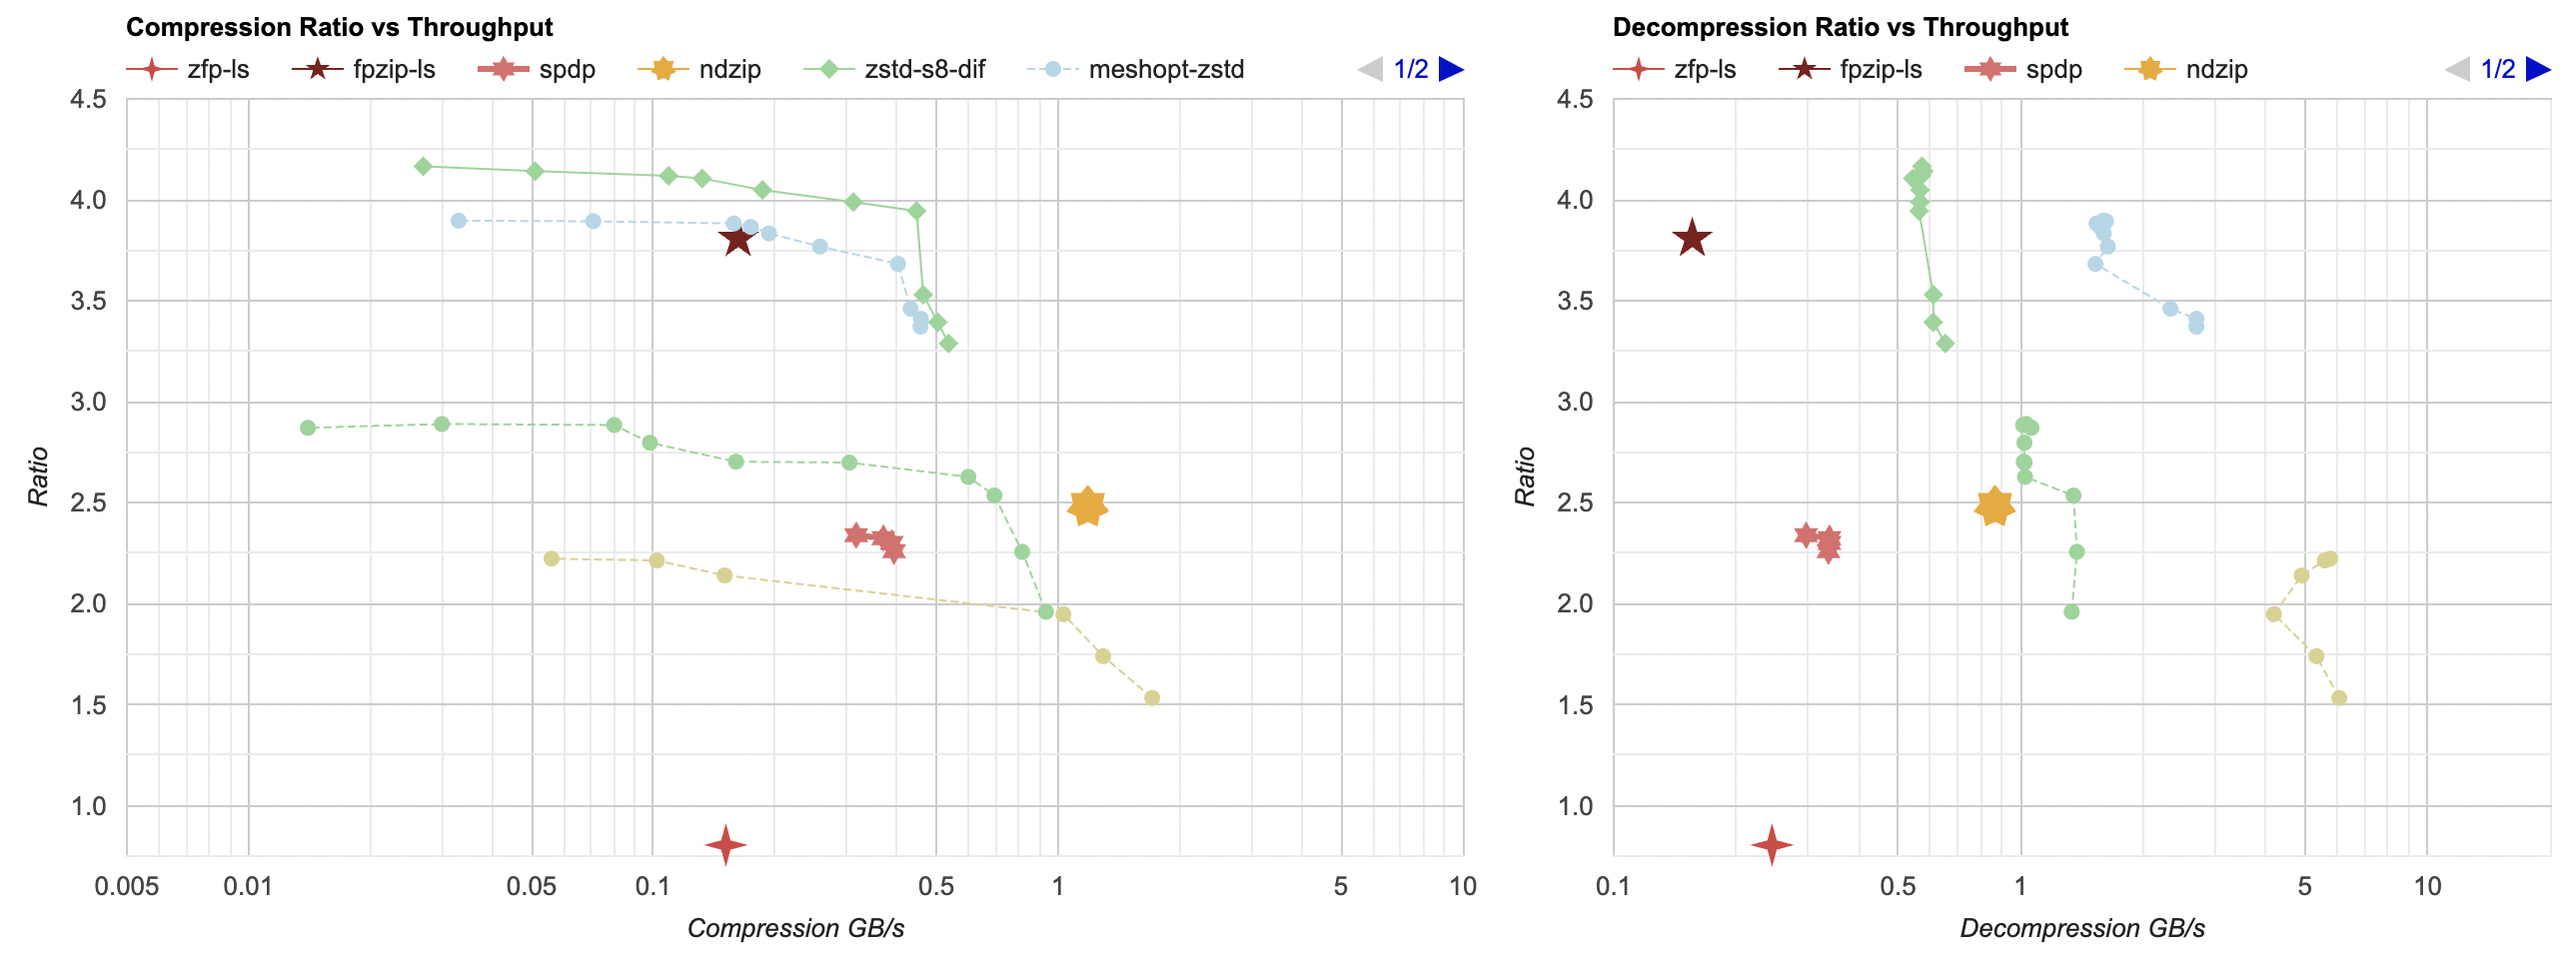
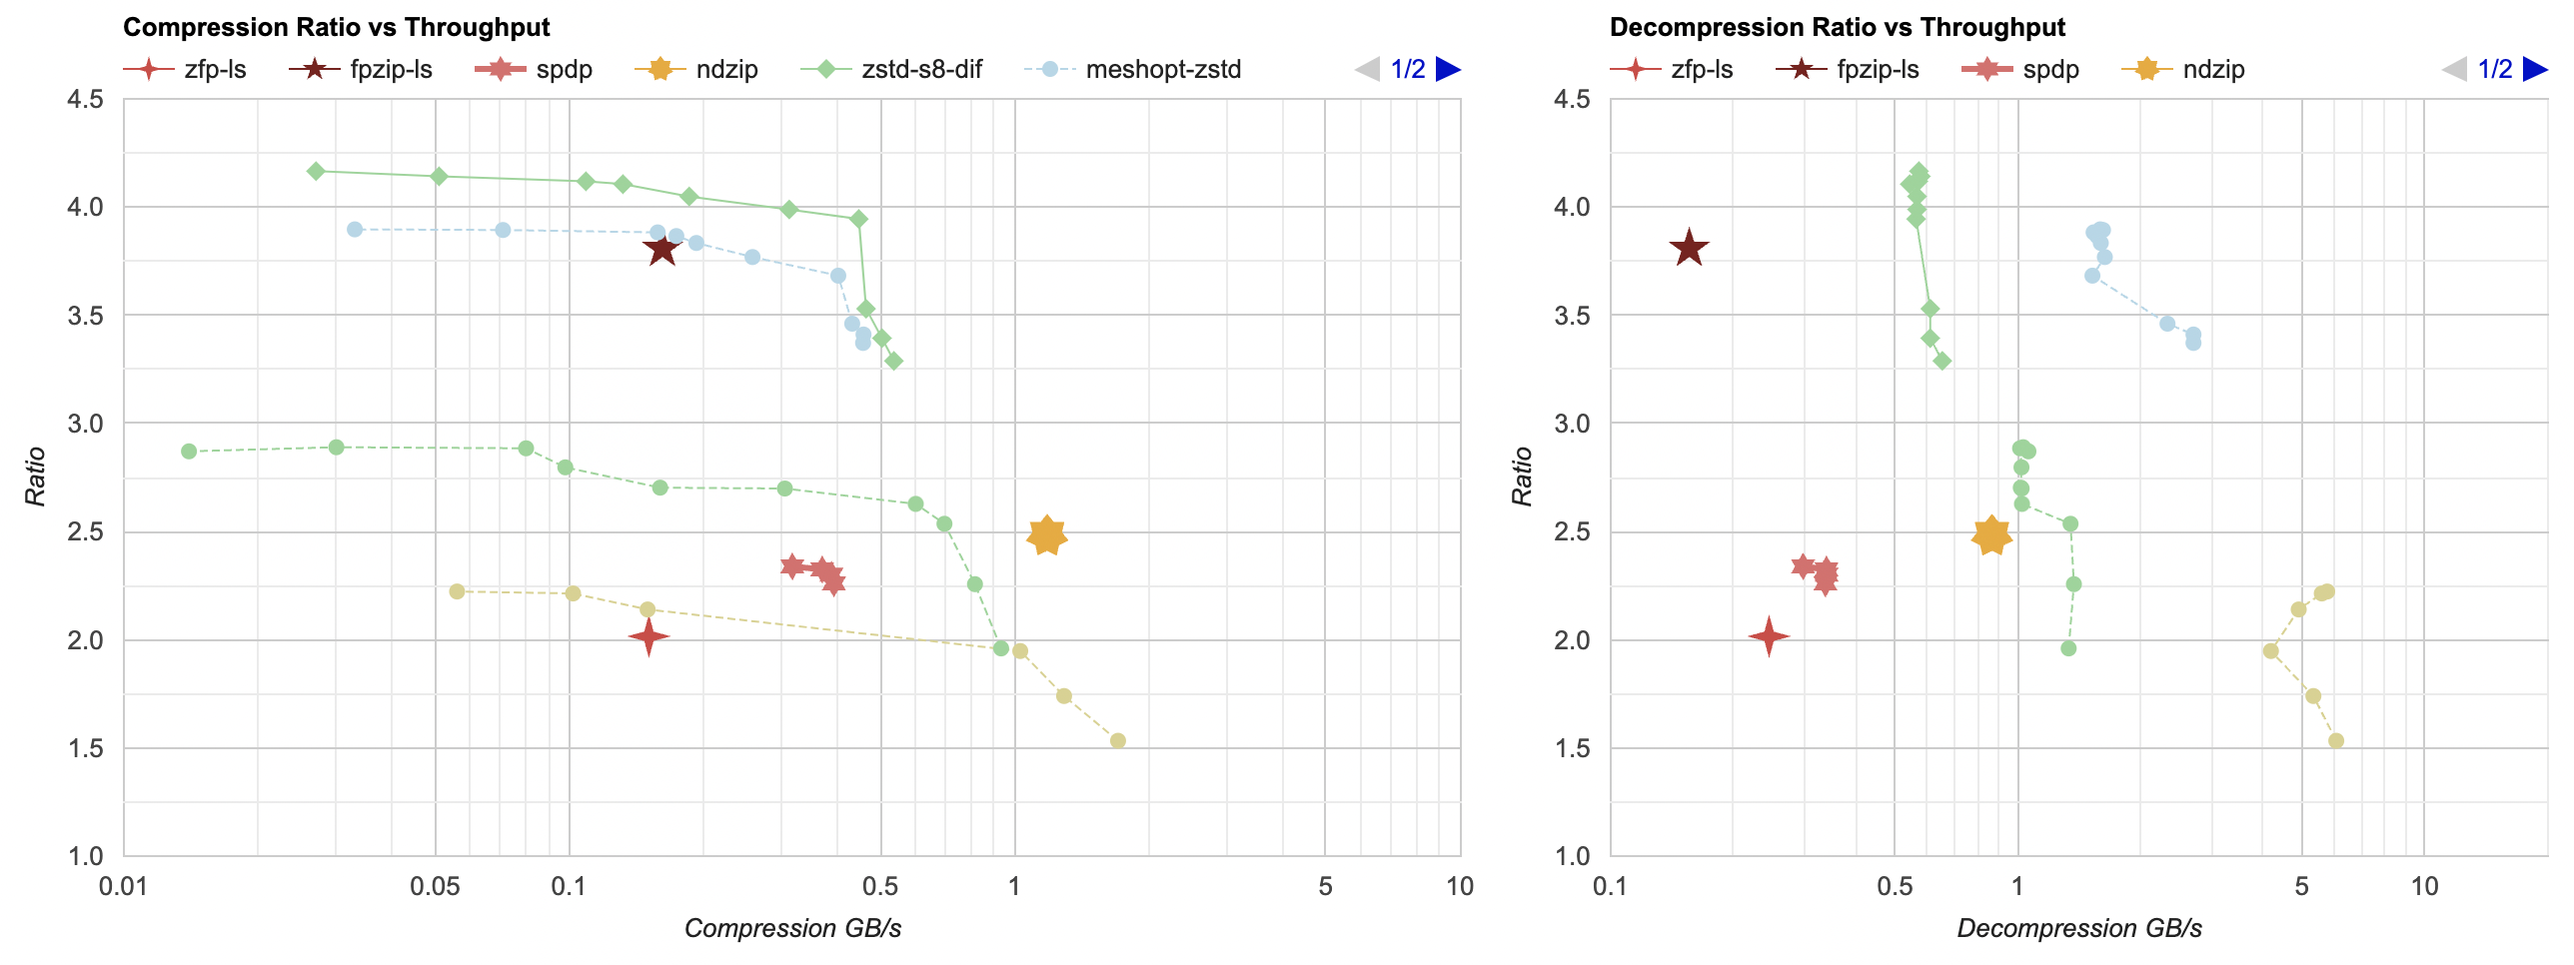
update zfp post

diff --git a/static/img/blog/2023/float-compr/05-float-compt-e-streamvbyte.html b/static/img/blog/2023/float-compr/05-float-compt-e-streamvbyte.html
@@ -34,7 +34,7 @@ dataDec.addColumn('number', 'zstd'); dataDec.addColumn({type:'string', role:'too
 dataCmp.addColumn('number', 'lz4'); dataCmp.addColumn({type:'string', role:'tooltip'}); dataCmp.addColumn({type:'string', role:'style'});
 dataDec.addColumn('number', 'lz4'); dataDec.addColumn({type:'string', role:'tooltip'}); dataDec.addColumn({type:'string', role:'style'});
 dataCmp.addRows([
-  [0.151, 0.805,'zfp-ls\n0.805x at 0.151 GB/s\n117.3MB 0.612s','' ,null,null,null,null,null,null,null,null,null,null,null,null,null,null,null,null,null,null,null,null,null,null,null,null,null,null,null],
+  [0.151, 2.016,'zfp-ls\n2.016x at 0.151 GB/s\n46.9MB 0.612s','' ,null,null,null,null,null,null,null,null,null,null,null,null,null,null,null,null,null,null,null,null,null,null,null,null,null,null,null],
   [0.162,null,null,null, 3.808,'fpzip-ls\n3.808x at 0.162 GB/s\n24.8MB 0.568s','' ,null,null,null,null,null,null,null,null,null,null,null,null,null,null,null,null,null,null,null,null,null,null,null,null],
   [0.393,null,null,null,null,null,null, 2.260,'spdp 0\n2.260x at 0.393 GB/s\n41.8MB 0.235s','' ,null,null,null,null,null,null,null,null,null,null,null,null,null,null,null,null,null,null,null,null,null],
   [0.388,null,null,null,null,null,null, 2.301,'spdp 3\n2.301x at 0.388 GB/s\n41.0MB 0.238s','' ,null,null,null,null,null,null,null,null,null,null,null,null,null,null,null,null,null,null,null,null,null],
@@ -90,7 +90,7 @@ dataCmp.addRows([
   [0.056,null,null,null,null,null,null,null,null,null,null,null,null,null,null,null,null,null,null,null,null,null,null,null,null,null,null,null, 2.223,'lz4 9\n2.223x at 0.056 GB/s\n42.5MB 1.653s','' ]
 ]);
 dataDec.addRows([
-  [0.245, 0.805,'zfp-ls\n0.805x at 0.245 GB/s\n117.3MB 0.377s','' ,null,null,null,null,null,null,null,null,null,null,null,null,null,null,null,null,null,null,null,null,null,null,null,null,null,null,null],
+  [0.245, 2.016,'zfp-ls\n2.016x at 0.245 GB/s\n46.9MB 0.377s','' ,null,null,null,null,null,null,null,null,null,null,null,null,null,null,null,null,null,null,null,null,null,null,null,null,null,null,null],
   [0.156,null,null,null, 3.808,'fpzip-ls\n3.808x at 0.156 GB/s\n24.8MB 0.592s','' ,null,null,null,null,null,null,null,null,null,null,null,null,null,null,null,null,null,null,null,null,null,null,null,null],
   [0.337,null,null,null,null,null,null, 2.260,'spdp 0\n2.260x at 0.337 GB/s\n41.8MB 0.274s','' ,null,null,null,null,null,null,null,null,null,null,null,null,null,null,null,null,null,null,null,null,null],
   [0.339,null,null,null,null,null,null, 2.301,'spdp 3\n2.301x at 0.339 GB/s\n41.0MB 0.272s','' ,null,null,null,null,null,null,null,null,null,null,null,null,null,null,null,null,null,null,null,null,null],
@@ -163,8 +163,8 @@ series: {
   10: {},
 },
 colors: ['d74242','7e1b1b','e06c6c','f0a820','ff6454','ff6454','90d596','b0d7e8','90d596','d9d18c'],
-hAxis: {title: 'Compression GB/s', logScale: true, viewWindow: {min:0.005, max:10.0}},
-vAxis: {title: 'Ratio', viewWindow: {min:0.75, max:4.5}},
+hAxis: {title: 'Compression GB/s', logScale: true, viewWindow: {min:0.01, max:10.0}},
+vAxis: {title: 'Ratio', viewWindow: {min:1.0, max:4.5}},
 chartArea: {left:60, right:10, top:50, bottom:50},
 legend: {position: 'top'},
 lineWidth: 1

diff --git a/static/img/blog/2023/float-compr/05-float-compt-d-ndzip.html b/static/img/blog/2023/float-compr/05-float-compt-d-ndzip.html
@@ -30,7 +30,7 @@ dataDec.addColumn('number', 'zstd'); dataDec.addColumn({type:'string', role:'too
 dataCmp.addColumn('number', 'lz4'); dataCmp.addColumn({type:'string', role:'tooltip'}); dataCmp.addColumn({type:'string', role:'style'});
 dataDec.addColumn('number', 'lz4'); dataDec.addColumn({type:'string', role:'tooltip'}); dataDec.addColumn({type:'string', role:'style'});
 dataCmp.addRows([
-  [0.151, 0.805,'zfp-ls\n0.805x at 0.151 GB/s\n117.3MB 0.612s','' ,null,null,null,null,null,null,null,null,null,null,null,null,null,null,null,null,null,null,null,null,null],
+  [0.151, 2.016,'zfp-ls\n2.016x at 0.151 GB/s\n46.9MB 0.612s','' ,null,null,null,null,null,null,null,null,null,null,null,null,null,null,null,null,null,null,null,null,null],
   [0.162,null,null,null, 3.808,'fpzip-ls\n3.808x at 0.162 GB/s\n24.8MB 0.568s','' ,null,null,null,null,null,null,null,null,null,null,null,null,null,null,null,null,null,null],
   [0.393,null,null,null,null,null,null, 2.260,'spdp 0\n2.260x at 0.393 GB/s\n41.8MB 0.235s','' ,null,null,null,null,null,null,null,null,null,null,null,null,null,null,null],
   [0.388,null,null,null,null,null,null, 2.301,'spdp 3\n2.301x at 0.388 GB/s\n41.0MB 0.238s','' ,null,null,null,null,null,null,null,null,null,null,null,null,null,null,null],
@@ -75,7 +75,7 @@ dataCmp.addRows([
   [0.056,null,null,null,null,null,null,null,null,null,null,null,null,null,null,null,null,null,null,null,null,null, 2.223,'lz4 9\n2.223x at 0.056 GB/s\n42.5MB 1.653s','' ]
 ]);
 dataDec.addRows([
-  [0.245, 0.805,'zfp-ls\n0.805x at 0.245 GB/s\n117.3MB 0.377s','' ,null,null,null,null,null,null,null,null,null,null,null,null,null,null,null,null,null,null,null,null,null],
+  [0.245, 2.016,'zfp-ls\n2.016x at 0.245 GB/s\n46.9MB 0.377s','' ,null,null,null,null,null,null,null,null,null,null,null,null,null,null,null,null,null,null,null,null,null],
   [0.156,null,null,null, 3.808,'fpzip-ls\n3.808x at 0.156 GB/s\n24.8MB 0.592s','' ,null,null,null,null,null,null,null,null,null,null,null,null,null,null,null,null,null,null],
   [0.337,null,null,null,null,null,null, 2.260,'spdp 0\n2.260x at 0.337 GB/s\n41.8MB 0.274s','' ,null,null,null,null,null,null,null,null,null,null,null,null,null,null,null],
   [0.339,null,null,null,null,null,null, 2.301,'spdp 3\n2.301x at 0.339 GB/s\n41.0MB 0.272s','' ,null,null,null,null,null,null,null,null,null,null,null,null,null,null,null],
@@ -135,8 +135,8 @@ series: {
   8: {},
 },
 colors: ['d74242','7e1b1b','e06c6c','f0a820','90d596','b0d7e8','90d596','d9d18c'],
-hAxis: {title: 'Compression GB/s', logScale: true, viewWindow: {min:0.005, max:10.0}},
-vAxis: {title: 'Ratio', viewWindow: {min:0.75, max:4.5}},
+hAxis: {title: 'Compression GB/s', logScale: true, viewWindow: {min:0.01, max:10.0}},
+vAxis: {title: 'Ratio', viewWindow: {min:1.0, max:4.5}},
 chartArea: {left:60, right:10, top:50, bottom:50},
 legend: {position: 'top'},
 lineWidth: 1

diff --git a/static/img/blog/2023/float-compr/05-float-compt-c-spdp.html b/static/img/blog/2023/float-compr/05-float-compt-c-spdp.html
@@ -28,7 +28,7 @@ dataDec.addColumn('number', 'zstd'); dataDec.addColumn({type:'string', role:'too
 dataCmp.addColumn('number', 'lz4'); dataCmp.addColumn({type:'string', role:'tooltip'}); dataCmp.addColumn({type:'string', role:'style'});
 dataDec.addColumn('number', 'lz4'); dataDec.addColumn({type:'string', role:'tooltip'}); dataDec.addColumn({type:'string', role:'style'});
 dataCmp.addRows([
-  [0.151, 0.805,'zfp-ls\n0.805x at 0.151 GB/s\n117.3MB 0.61s','' ,null,null,null,null,null,null,null,null,null,null,null,null,null,null,null,null,null,null],
+  [0.151, 2.016,'zfp-ls\n2.016x at 0.151 GB/s\n46.9MB 0.61s','' ,null,null,null,null,null,null,null,null,null,null,null,null,null,null,null,null,null,null],
   [0.162,null,null,null, 3.808,'fpzip-ls\n3.808x at 0.162 GB/s\n24.8MB 0.57s','' ,null,null,null,null,null,null,null,null,null,null,null,null,null,null,null],
   [0.393,null,null,null,null,null,null, 2.260,'spdp 0\n2.260x at 0.393 GB/s\n41.8MB 0.23s','' ,null,null,null,null,null,null,null,null,null,null,null,null],
   [0.388,null,null,null,null,null,null, 2.301,'spdp 3\n2.301x at 0.388 GB/s\n41.0MB 0.24s','' ,null,null,null,null,null,null,null,null,null,null,null,null],
@@ -72,7 +72,7 @@ dataCmp.addRows([
   [0.056,null,null,null,null,null,null,null,null,null,null,null,null,null,null,null,null,null,null, 2.223,'lz4 9\n2.223x at 0.056 GB/s\n42.5MB 1.65s','' ]
 ]);
 dataDec.addRows([
-  [0.245, 0.805,'zfp-ls\n0.805x at 0.245 GB/s\n117.3MB 0.38s','' ,null,null,null,null,null,null,null,null,null,null,null,null,null,null,null,null,null,null],
+  [0.245, 2.016,'zfp-ls\n2.016x at 0.245 GB/s\n46.9MB 0.38s','' ,null,null,null,null,null,null,null,null,null,null,null,null,null,null,null,null,null,null],
   [0.156,null,null,null, 3.808,'fpzip-ls\n3.808x at 0.156 GB/s\n24.8MB 0.59s','' ,null,null,null,null,null,null,null,null,null,null,null,null,null,null,null],
   [0.337,null,null,null,null,null,null, 2.260,'spdp 0\n2.260x at 0.337 GB/s\n41.8MB 0.27s','' ,null,null,null,null,null,null,null,null,null,null,null,null],
   [0.339,null,null,null,null,null,null, 2.301,'spdp 3\n2.301x at 0.339 GB/s\n41.0MB 0.27s','' ,null,null,null,null,null,null,null,null,null,null,null,null],
@@ -130,8 +130,8 @@ series: {
   7: {},
 },
 colors: ['d74242','7e1b1b','e06c6c','90d596','b0d7e8','90d596','d9d18c'],
-hAxis: {title: 'Compression GB/s', logScale: true, viewWindow: {min:0.005, max:10.0}},
-vAxis: {title: 'Ratio', viewWindow: {min:0.75, max:4.5}},
+hAxis: {title: 'Compression GB/s', logScale: true, viewWindow: {min:0.01, max:10.0}},
+vAxis: {title: 'Ratio', viewWindow: {min:1.0, max:4.5}},
 chartArea: {left:60, right:10, top:50, bottom:50},
 legend: {position: 'top'},
 lineWidth: 1

diff --git a/static/img/blog/2023/float-compr/05-float-compt-b-fpzip.html b/static/img/blog/2023/float-compr/05-float-compt-b-fpzip.html
@@ -26,7 +26,7 @@ dataDec.addColumn('number', 'zstd'); dataDec.addColumn({type:'string', role:'too
 dataCmp.addColumn('number', 'lz4'); dataCmp.addColumn({type:'string', role:'tooltip'}); dataCmp.addColumn({type:'string', role:'style'});
 dataDec.addColumn('number', 'lz4'); dataDec.addColumn({type:'string', role:'tooltip'}); dataDec.addColumn({type:'string', role:'style'});
 dataCmp.addRows([
-  [0.151, 0.805,'zfp-ls\n0.805x at 0.151 GB/s\n117.3MB 0.61s','' ,null,null,null,null,null,null,null,null,null,null,null,null,null,null,null],
+  [0.151, 2.016,'zfp-ls\n2.016x at 0.151 GB/s\n46.9MB 0.61s','' ,null,null,null,null,null,null,null,null,null,null,null,null,null,null,null],
   [0.162,null,null,null, 3.808,'fpzip-ls\n3.808x at 0.162 GB/s\n24.8MB 0.57s','' ,null,null,null,null,null,null,null,null,null,null,null,null],
   [0.536,null,null,null,null,null,null, 3.289,'zstd-s8-dif -5\n3.289x at 0.536 GB/s\n28.7MB 0.17s','' ,null,null,null,null,null,null,null,null,null],
   [0.504,null,null,null,null,null,null, 3.394,'zstd-s8-dif -3\n3.394x at 0.504 GB/s\n27.8MB 0.18s','' ,null,null,null,null,null,null,null,null,null],
@@ -66,7 +66,7 @@ dataCmp.addRows([
   [0.056,null,null,null,null,null,null,null,null,null,null,null,null,null,null,null, 2.223,'lz4 9\n2.223x at 0.056 GB/s\n42.5MB 1.65s','' ]
 ]);
 dataDec.addRows([
-  [0.245, 0.805,'zfp-ls\n0.805x at 0.245 GB/s\n117.3MB 0.38s','' ,null,null,null,null,null,null,null,null,null,null,null,null,null,null,null],
+  [0.245, 2.016,'zfp-ls\n2.016x at 0.245 GB/s\n46.9MB 0.38s','' ,null,null,null,null,null,null,null,null,null,null,null,null,null,null,null],
   [0.156,null,null,null, 3.808,'fpzip-ls\n3.808x at 0.156 GB/s\n24.8MB 0.59s','' ,null,null,null,null,null,null,null,null,null,null,null,null],
   [0.653,null,null,null,null,null,null, 3.289,'zstd-s8-dif -5\n3.289x at 0.653 GB/s\n28.7MB 0.14s','' ,null,null,null,null,null,null,null,null,null],
   [0.610,null,null,null,null,null,null, 3.394,'zstd-s8-dif -3\n3.394x at 0.610 GB/s\n27.8MB 0.15s','' ,null,null,null,null,null,null,null,null,null],
@@ -119,8 +119,8 @@ series: {
   6: {},
 },
 colors: ['d74242','7e1b1b','90d596','b0d7e8','90d596','d9d18c'],
-hAxis: {title: 'Compression GB/s', logScale: true, viewWindow: {min:0.005, max:10.0}},
-vAxis: {title: 'Ratio', viewWindow: {min:0.75, max:4.5}},
+hAxis: {title: 'Compression GB/s', logScale: true, viewWindow: {min:0.01, max:10.0}},
+vAxis: {title: 'Ratio', viewWindow: {min:1.0, max:4.5}},
 chartArea: {left:60, right:10, top:50, bottom:50},
 legend: {position: 'top'},
 lineWidth: 1

diff --git a/static/img/blog/2023/float-compr/05-float-compt-a-zfp.html b/static/img/blog/2023/float-compr/05-float-compt-a-zfp.html
@@ -24,7 +24,7 @@ dataDec.addColumn('number', 'zstd'); dataDec.addColumn({type:'string', role:'too
 dataCmp.addColumn('number', 'lz4'); dataCmp.addColumn({type:'string', role:'tooltip'}); dataCmp.addColumn({type:'string', role:'style'});
 dataDec.addColumn('number', 'lz4'); dataDec.addColumn({type:'string', role:'tooltip'}); dataDec.addColumn({type:'string', role:'style'});
 dataCmp.addRows([
-  [0.151, 0.805,'zfp-ls\n0.805x at 0.151 GB/s\n117.3MB 0.61s','' ,null,null,null,null,null,null,null,null,null,null,null,null],
+  [0.151, 2.016,'zfp-ls\n2.016x at 0.151 GB/s\n46.9MB 0.61s','' ,null,null,null,null,null,null,null,null,null,null,null,null],
   [0.536,null,null,null, 3.289,'zstd-s8-dif -5\n3.289x at 0.536 GB/s\n28.7MB 0.17s','' ,null,null,null,null,null,null,null,null,null],
   [0.504,null,null,null, 3.394,'zstd-s8-dif -3\n3.394x at 0.504 GB/s\n27.8MB 0.18s','' ,null,null,null,null,null,null,null,null,null],
   [0.464,null,null,null, 3.530,'zstd-s8-dif -1\n3.530x at 0.464 GB/s\n26.8MB 0.20s','' ,null,null,null,null,null,null,null,null,null],
@@ -63,7 +63,7 @@ dataCmp.addRows([
   [0.056,null,null,null,null,null,null,null,null,null,null,null,null, 2.223,'lz4 9\n2.223x at 0.056 GB/s\n42.5MB 1.65s','' ]
 ]);
 dataDec.addRows([
-  [0.245, 0.805,'zfp-ls\n0.805x at 0.245 GB/s\n117.3MB 0.38s','' ,null,null,null,null,null,null,null,null,null,null,null,null],
+  [0.245, 2.016,'zfp-ls\n2.016x at 0.245 GB/s\n46.9MB 0.38s','' ,null,null,null,null,null,null,null,null,null,null,null,null],
   [0.653,null,null,null, 3.289,'zstd-s8-dif -5\n3.289x at 0.653 GB/s\n28.7MB 0.14s','' ,null,null,null,null,null,null,null,null,null],
   [0.610,null,null,null, 3.394,'zstd-s8-dif -3\n3.394x at 0.610 GB/s\n27.8MB 0.15s','' ,null,null,null,null,null,null,null,null,null],
   [0.610,null,null,null, 3.530,'zstd-s8-dif -1\n3.530x at 0.610 GB/s\n26.8MB 0.15s','' ,null,null,null,null,null,null,null,null,null],
@@ -114,8 +114,8 @@ series: {
   5: {},
 },
 colors: ['d74242','90d596','b0d7e8','90d596','d9d18c'],
-hAxis: {title: 'Compression GB/s', logScale: true, viewWindow: {min:0.005, max:10.0}},
-vAxis: {title: 'Ratio', viewWindow: {min:0.75, max:4.5}},
+hAxis: {title: 'Compression GB/s', logScale: true, viewWindow: {min:0.01, max:10.0}},
+vAxis: {title: 'Ratio', viewWindow: {min:1.0, max:4.5}},
 chartArea: {left:60, right:10, top:50, bottom:50},
 legend: {position: 'top'},
 lineWidth: 1

diff --git a/content/blog/2023/02-float-compr-5-scientific.md b/content/blog/2023/02-float-compr-5-scientific.md
@@ -28,14 +28,12 @@ into 4x4 blocks, and each block is encoded completely independently from the oth
 Sounds cool! Let's try it (again, I'm using the lossless mode of it right now). zfp is the red 4-sided star point: \
 [{{<img src="/img/blog/2023/float-compr/05-float-compt-a-zfp.png">}}](/img/blog/2023/float-compr/05-float-compt-a-zfp.html)
 
-Ouch. I hope I "used it wrong" in some way? But this is not looking great. Ratio is *under* 1, i.e. it makes the data *larger*, and
-is *slow* to decompress.
+~~Ouch. I hope I "used it wrong" in some way? But this is not looking great. Ratio is *under* 1, i.e. it makes the data *larger*, and
+is *slow* to decompress.~~ *(Edit: initially I made a mistake and misunderstood what zfp_compress returns -- it returns the
+cumulative number of compressed bytes; not new compressed bytes done during the compress call)*
 
-I tried compressing each data file as one "zfp field" (`width*channels` x `height` size), as well as `channels` separate fields of `width` x `height` size,
-interleaved in memory as they are, and the results are fairly similarly disappointing. Source code of my usage of it is
-[around here](https://github.com/aras-p/float_compr_tester/blob/9f99468/src/compressors.cpp#L527).
-
-Oh well, maybe *zfp* is more targeted at lossy compression? Or more towards 3D or 4D data? Let's move on.
+In lossless mode, zfp is not looking super great -- ratio is not stellar, and decompression speed in particular is quite slow.
+Maybe it is more targeted at lossy compression? Or more towards 3D or 4D data? Let's move on.
 
 #### fpzip
 
